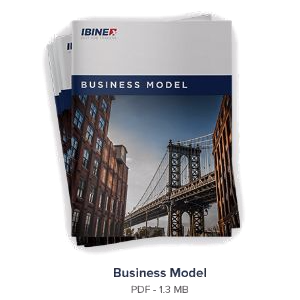
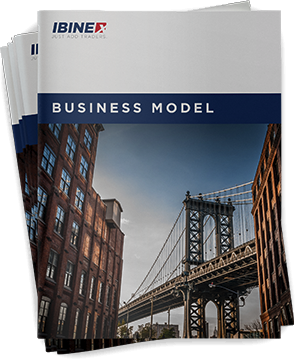
updated pic

diff --git a/index.php b/index.php
@@ -135,7 +135,7 @@
     font-weight: bold;
     padding-top: 7%;
     background: white;
-    transform: translateX(-55px);
+    transform: translateX(-50px);
   }
   
   #nusku-video-p {
@@ -147,16 +147,15 @@
   }
   
   #nusku-video-p span {
-    font-family: 'EB Garamond', serif;
+   font-family: 'Playfair Display', serif;
     font-style: italic;
-    font-size: 130%;
     font-weight: 600;
   }
   
   #nusku-video-cov {
     text-align: center;
     padding: 70px 0;
-    transform: translateX(55px);
+    transform: translateX(50px);
     z-index: 99;
   }
   
@@ -177,6 +176,7 @@
     display: flex;
     background-color: #f8f8f8;
     padding-left: 5%;
+    padding-right: 5%;
   }
   
   #intro-title {
@@ -231,7 +231,7 @@
     background: #12d5b7;
     padding: 10px 20px 10px 20px;
     text-decoration: none;
-    transform: translatex(10px);
+/*     transform: translatex(10px); */
     border: none;
   }
   
@@ -276,6 +276,11 @@
 .padding {
     padding-left: 20%;
     padding-right: 20%;
+}
+  
+ .padding-video {
+    padding-left: 15%;
+    padding-right: 15%;
 }
   
 .padding1 {
@@ -326,10 +331,48 @@
     display: none;
   }
   
+  .brochure img {
+    width: 70%;
+  }
+  
+  .brochure {
+    display: grid;
+    grid-template-columns: 1fr auto 1fr;
+    justify-items: center;
+    grid-gap: 5px;
+  }
+  
+  .brochure button {
+    grid-column: 2 / span 1;
+  }
+  
+  .brochure span,
+  .brochure img{
+    grid-column: 1 / -1;
+  }
+  
+  .brochure span:nth-child(2) {
+    font-weight: 700;
+  }
+  
+  .brochure span:nth-child(3) {
+    font-size: 0.9rem;
+  }
+  
 @media only screen and (min-width: 768px) and (max-width : 1024px) {
 /* For tablet: */
   #nusku-header {
     grid-template-columns: 0.5fr 1.5fr 1.5fr 0.5fr;
+  }
+  .arrow-left,
+  .arrow-right {
+    position: relative;
+    top: 400px;
+  }
+   .padding,
+  .padding-video {
+      padding-left: 0%;
+      padding-right: 0%;
   }
 }
   
@@ -375,7 +418,11 @@
   }
   
   .header-container.header-text h1 {
-    font-size: 2rem;
+    font-size: 2.6rem;
+  }
+  
+  .header-container.header-text > h1 > span {
+    font-size: 1rem;
   }
   
     .header-container.header-text h2 {
@@ -386,6 +433,25 @@
     font-size: 1rem;
     font-weight: 500;
     text-align: justify;
+  }
+  
+   #intro-img { 
+    margin-top: 20px;
+    background-size: contain;
+  }
+  
+  .coolors {
+    font-size: 150%;
+  }
+  
+  #nusku-video-p {
+    font-weight: 800;
+  }
+  
+   #nusku-video-p span {
+   font-family: 'Montserrat', sans-serif;
+    font-style: normal;
+    font-weight: 800;
   }
   
   #nusku-video {
@@ -410,7 +476,7 @@
     vertical-align: middle;
     text-align: center;
     font-size: 45px;
-    font-weight: bold;
+    
   }
   
   #nusku-video-cov {
@@ -461,7 +527,7 @@
     background: #12d5b7;
     padding: 10px 20px 10px 20px;
     text-decoration: none;
-    transform: translatex(10px);
+/*     transform: translatex(10px); */
     border: none;
     display: flex;
     margin: 0 auto;
@@ -469,10 +535,11 @@
   }
   
   #legal-p {
-    font-size: 13px;
-    font-weight: bold;
+/*     font-size: 13px; */
+    font-weight: 600;
     text-align: center;
     padding-top: 15%;
+    font-size: 140%;
   }
   
   #feature-header {
@@ -491,19 +558,30 @@
   
   
   #legal-h2 {
-    font-weight: bold;
+/*     font-weight: bold; */
+    font-size: 180%;
     text-align: center;
-    font-family: 'Arial';
+/*     font-family: 'Arial'; */
     padding: 0% 5% 10% 5%;
   }
   
   .header-image {
     background-position: 80% 0%;
-}
-        .padding {
+  }
+  p {
+    text-align: justify;
+  }
+  
+  .nusku-media-logo {
+    margin-bottom: 15px;
+    height: auto;
+  }
+        .padding,
+        .padding-video {
             padding-left: 0%;
             padding-right: 0%;
         }
+      
         #intro-content{
             order: 0;
             padding: 20% 0% 0% 0%;
@@ -515,7 +593,8 @@
   
         #intro-title {
             font-weight: 900;
-            font-family: 'Arial';
+/*             font-family: 'Arial'; */
+          font-size: 2.1rem;
             padding: 0% 7% 0% 0%;
         }
   
@@ -534,6 +613,21 @@
         .uk-padding1 {
           padding: 15px;
         }
+        .arrow-left,
+        .arrow-right {
+          position: relative;
+          top: 200px;
+          left: 10px;
+          border: 0;
+          background-color: transparent;
+          z-index: 10;
+        }
+  
+        .arrow-right {
+          float: right;
+          left: -10px;
+        }
+        
         
     }
 </style>
@@ -658,13 +752,13 @@
         </div>
     </div>
 
-    <div id="nusku-video" class="uk-background-muted padding">
+    <div id="nusku-video" class="uk-background-muted padding-video">
         <div id="nusku-video-cov">
             <img src="assets/images/video.png" class="video-img">
         </div>
         <div id="nusku-video-title">
           <h2 id="nusku-video-p">
-            Our<span>vision.</span>
+            Our<span> vision.</span>
           </h2>
       </div>
     </div>
@@ -674,38 +768,50 @@
         <h2 id="legal-h2" class="uk-margin-remove-top">Technical Papers &amp; Legal Circular</h2>
         <div class="uk-text-center media-padding" uk-grid>
             <div class="uk-width-1-3 uk-padding-remove">
-                <div class="uk-padding-remove">
+                <div class="uk-padding-remove brochure">
                     <img src="assets/images/brochure1.png" class="">
+                    <span style="color:midnightblue">Business Model</span>
+                    <span>PDF - 1.3 MB</span>
                     <button id="legal-btn">DOWNLOAD</button>
                 </div>
             </div>
             <div class="uk-width-1-3 uk-padding-remove">
-                <div class="uk-card uk-card-body uk-padding-remove">
+                <div class="brochure uk-padding-remove">
                     <img src="assets/images/brochure2.png" class="">
+                    <span style="color:sienna">One Page Brochure</span>
+                    <span>PDF - 1.3 MB</span>
                     <button id="legal-btn">DOWNLOAD</button>
                 </div>
             </div>
             <div class="uk-width-1-3 uk-padding-remove">
-                <div class="uk-card uk-card-body uk-padding-remove">
+                <div class="brochure uk-padding-remove">
                     <img src="assets/images/brochure3.png" class="">
+                    <span style="color:brown">Custodian Guidlines</span>
+                    <span>PDF - 1.3 MB</span>
                     <button id="legal-btn">DOWNLOAD</button>
                 </div>
             </div>
             <div class="uk-width-1-3 uk-padding-remove">
-                <div class="uk-card uk-card-body uk-padding-remove">
+                <div class="brochure uk-padding-remove">
                     <img src="assets/images/brochure4.png" class="">
+                    <span style="color:darkolivegreen">Pricing Model</span>
+                    <span>PDF - 1.3 MB</span>
                     <button id="legal-btn">DOWNLOAD</button>
                 </div>
             </div>
             <div class="uk-width-1-3 uk-padding-remove">
-                <div class="uk-card uk-card-body uk-padding-remove">
+                <div class="brochure uk-padding-remove">
                     <img src="assets/images/brochure5.png" class="">
+                    <span style="color:darkslateblue">Terms &amp; Conditions</span>
+                    <span>PDF - 1.3 MB</span>
                     <button id="legal-btn">DOWNLOAD</button>
                 </div>
             </div>
             <div class="uk-width-1-3 uk-padding-remove">
-                <div class="uk-card uk-card-body uk-padding-remove">
+                <div class="brochure uk-padding-remove">
                     <img src="assets/images/brochure6.png" class="">
+                    <span style="color:darkslategray">KYC &amp; AML Requirements</span>
+                    <span>PDF - 1.3 MB</span>
                     <button id="legal-btn">DOWNLOAD</button>
                 </div>
             </div>
@@ -716,42 +822,54 @@
           <p id="legal-p">Learn more about Ibinex</p>
           <h2 id="legal-h2" class="uk-margin-remove-top">Technical Papers &amp; Legal Circular</h2>
           <!-- The slideshow -->
-          <button class="arrow-left"><i class="fas fa-angle-left fa-2x"></i></button>
-          <button class="arrow-right"><i class="fas fa-angle-right fa-2x"></i></button>
+          <button class="arrow-left"><i class="fas fa-angle-left fa-3x"></i></button>
+          <button class="arrow-right"><i class="fas fa-angle-right fa-3x"></i></button>
           <div class="carousel-inner">
             <div class="">
-                <div class="">
+                <div class="brochure">
                     <img src="assets/images/brochure1.png" class="">
+                    <span style="color:midnightblue">Business Model</span>
+                    <span>PDF - 1.3 MB</span>
                     <button id="legal-btn">DOWNLOAD</button>
                 </div>
             </div>
             <div class="">
-                <div class="">
+                <div class="brochure">
                     <img src="assets/images/brochure2.png" class="">
+                    <span style="color:sienna">One Page Brochure</span>
+                    <span>PDF - 1.3 MB</span>
                     <button id="legal-btn">DOWNLOAD</button>
                 </div>
             </div>
             <div class="">
-                <div class="">
+                <div class="brochure">
                     <img src="assets/images/brochure3.png" class="">
+                    <span style="color:brown">Custodian Guidlines</span>
+                    <span>PDF - 1.3 MB</span>
                     <button id="legal-btn">DOWNLOAD</button>
                 </div>
             </div>
             <div class="">
-                <div class="">
+                <div class="brochure">
                     <img src="assets/images/brochure4.png" class="">
+                    <span style="color:darkolivegreen">Pricing Model</span>
+                    <span>PDF - 1.3 MB</span>
                     <button id="legal-btn">DOWNLOAD</button>
                 </div>
             </div>
             <div class="">
-                <div class="">
+                <div class="brochure">
                     <img src="assets/images/brochure5.png" class="">
+                    <span style="color:darkslateblue">Terms &amp; Conditions</span>
+                    <span>PDF - 1.3 MB</span>
                     <button id="legal-btn">DOWNLOAD</button>
                 </div>
             </div>
             <div class="">
-                <div class="">
+                <div class="brochure">
                     <img src="assets/images/brochure6.png" class="">
+                    <span style="color:darkslategray">KYC &amp; AML Requirements</span>
+                    <span>PDF - 1.3 MB</span>
                     <button id="legal-btn">DOWNLOAD</button>
                 </div>
             </div>
@@ -761,7 +879,7 @@
 
 
     <div id="nusku-media" class="uk-background-muted">
-        <h2 id="nusku-media-title">Ibinex media coverage</h2>      
+        <h2 id="nusku-media-title">Ibinex Media Coverage</h2>      
         <div id="nusku-media-cov">
             <img src="assets/images/media1.png" class="nusku-media-logo">
             <img src="assets/images/media2.png" class="nusku-media-logo">
